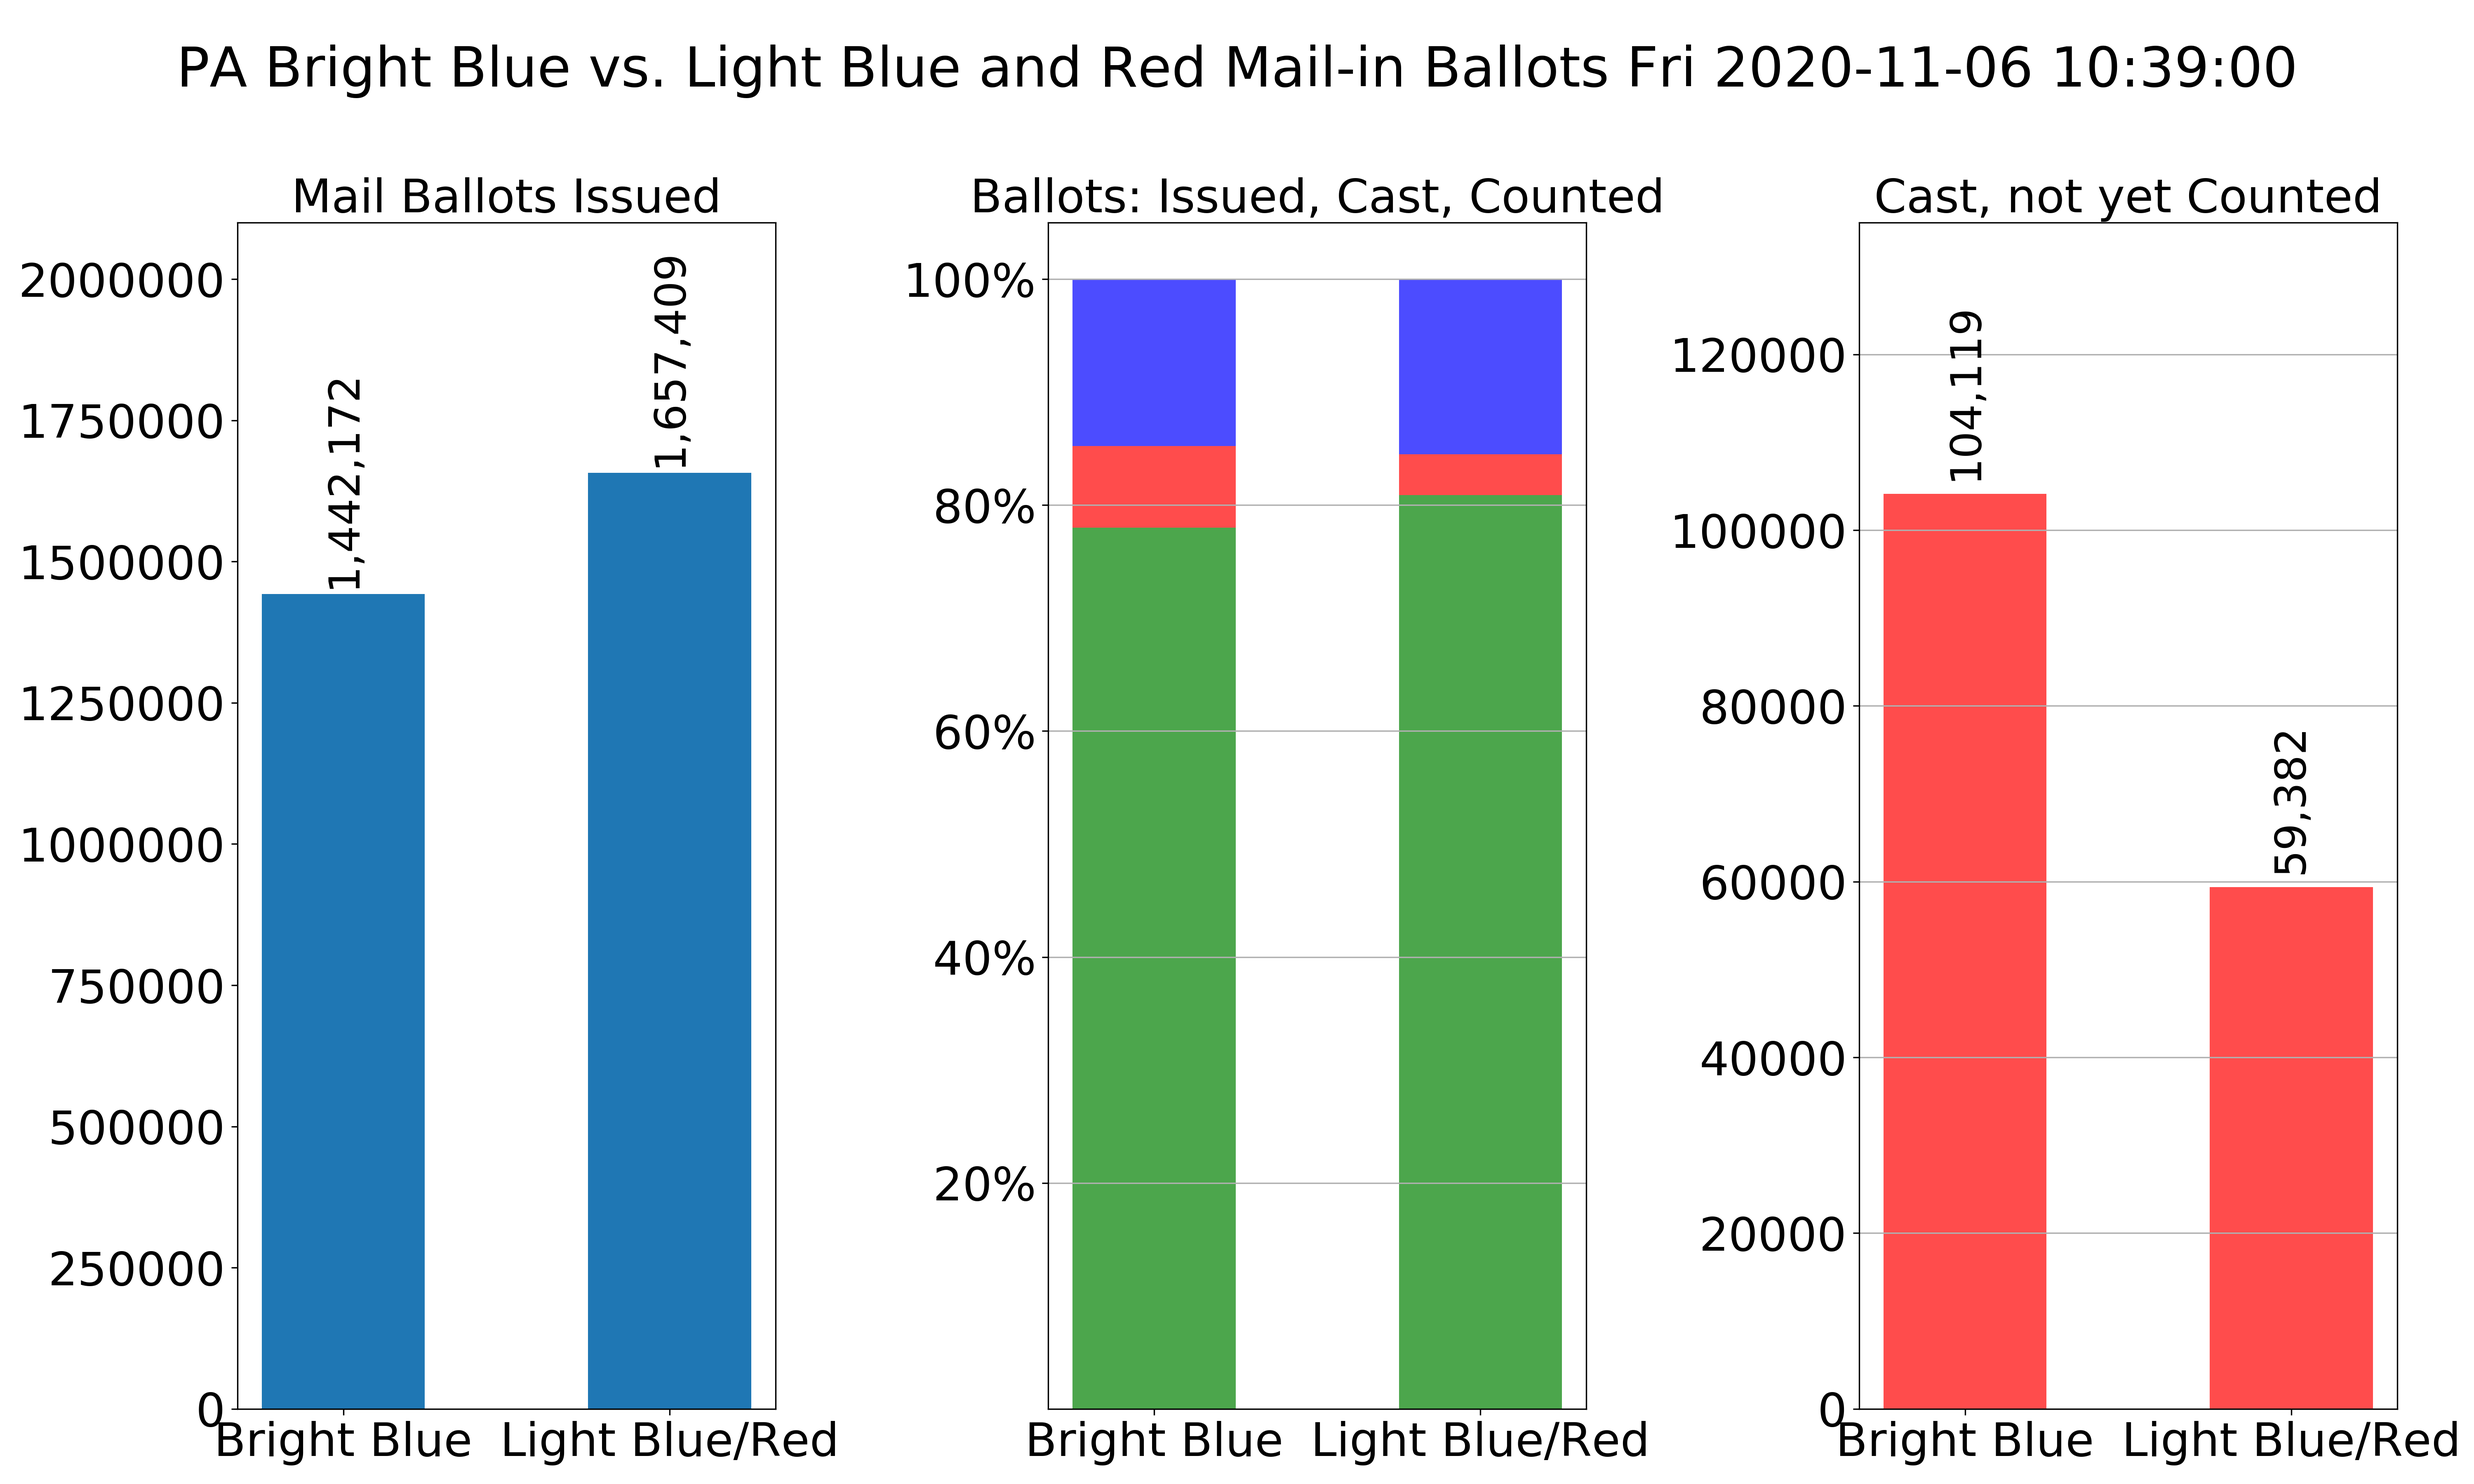
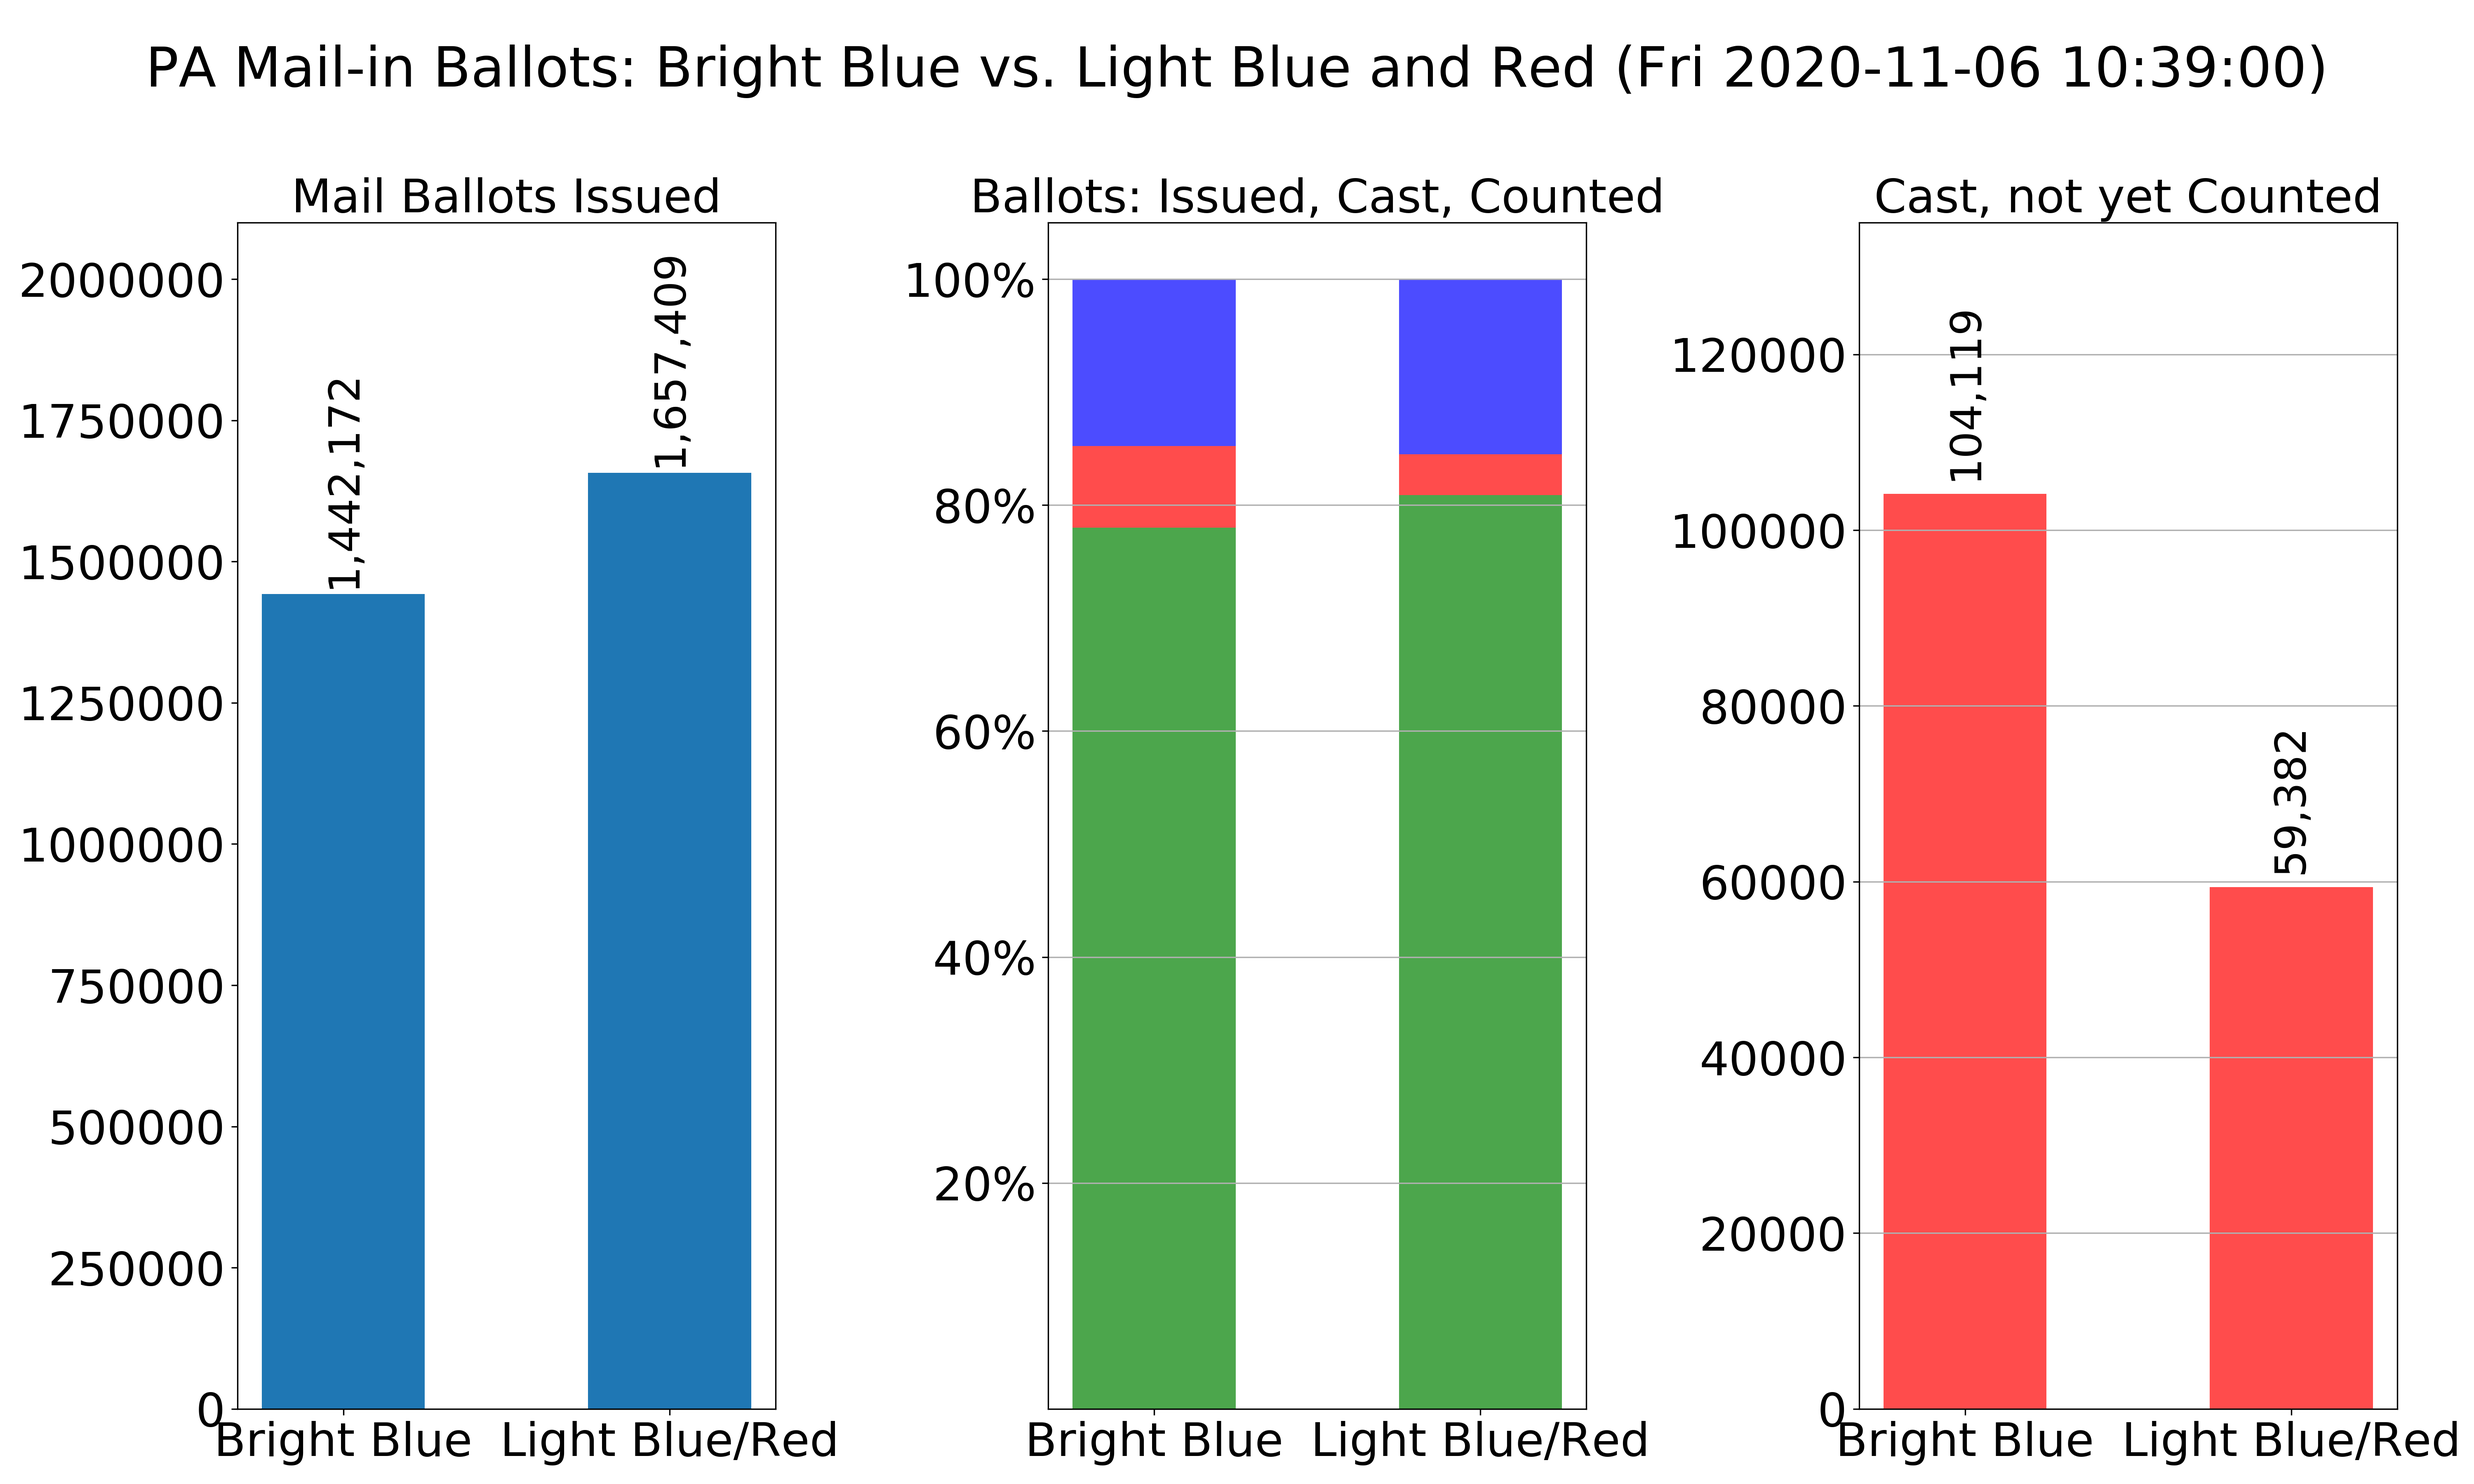
Plot title formatting

Changed region(s): [[0.374, 0.0311, 0.935, 0.0622], [0.0623, 0.0311, 0.3117, 0.0622]]

diff --git a/src/data_pa_gov/mail_ballot_plot.py b/src/data_pa_gov/mail_ballot_plot.py
@@ -39,7 +39,7 @@ class MailBallotPlot:
         fig.set_size_inches(20, 12)
         day = self.time.strftime('%a')
         fig.suptitle(
-            'PA Bright Blue vs. Light Blue and Red Mail-in Ballots {D} {T}'.format(D=day, T=self.time),
+            'PA Mail-in Ballots: Bright Blue vs. Light Blue and Red ({D} {T})'.format(D=day, T=self.time),
             va='top', fontsize=32, y=.97)
         # Three plots
         xvals = [0, 1]
